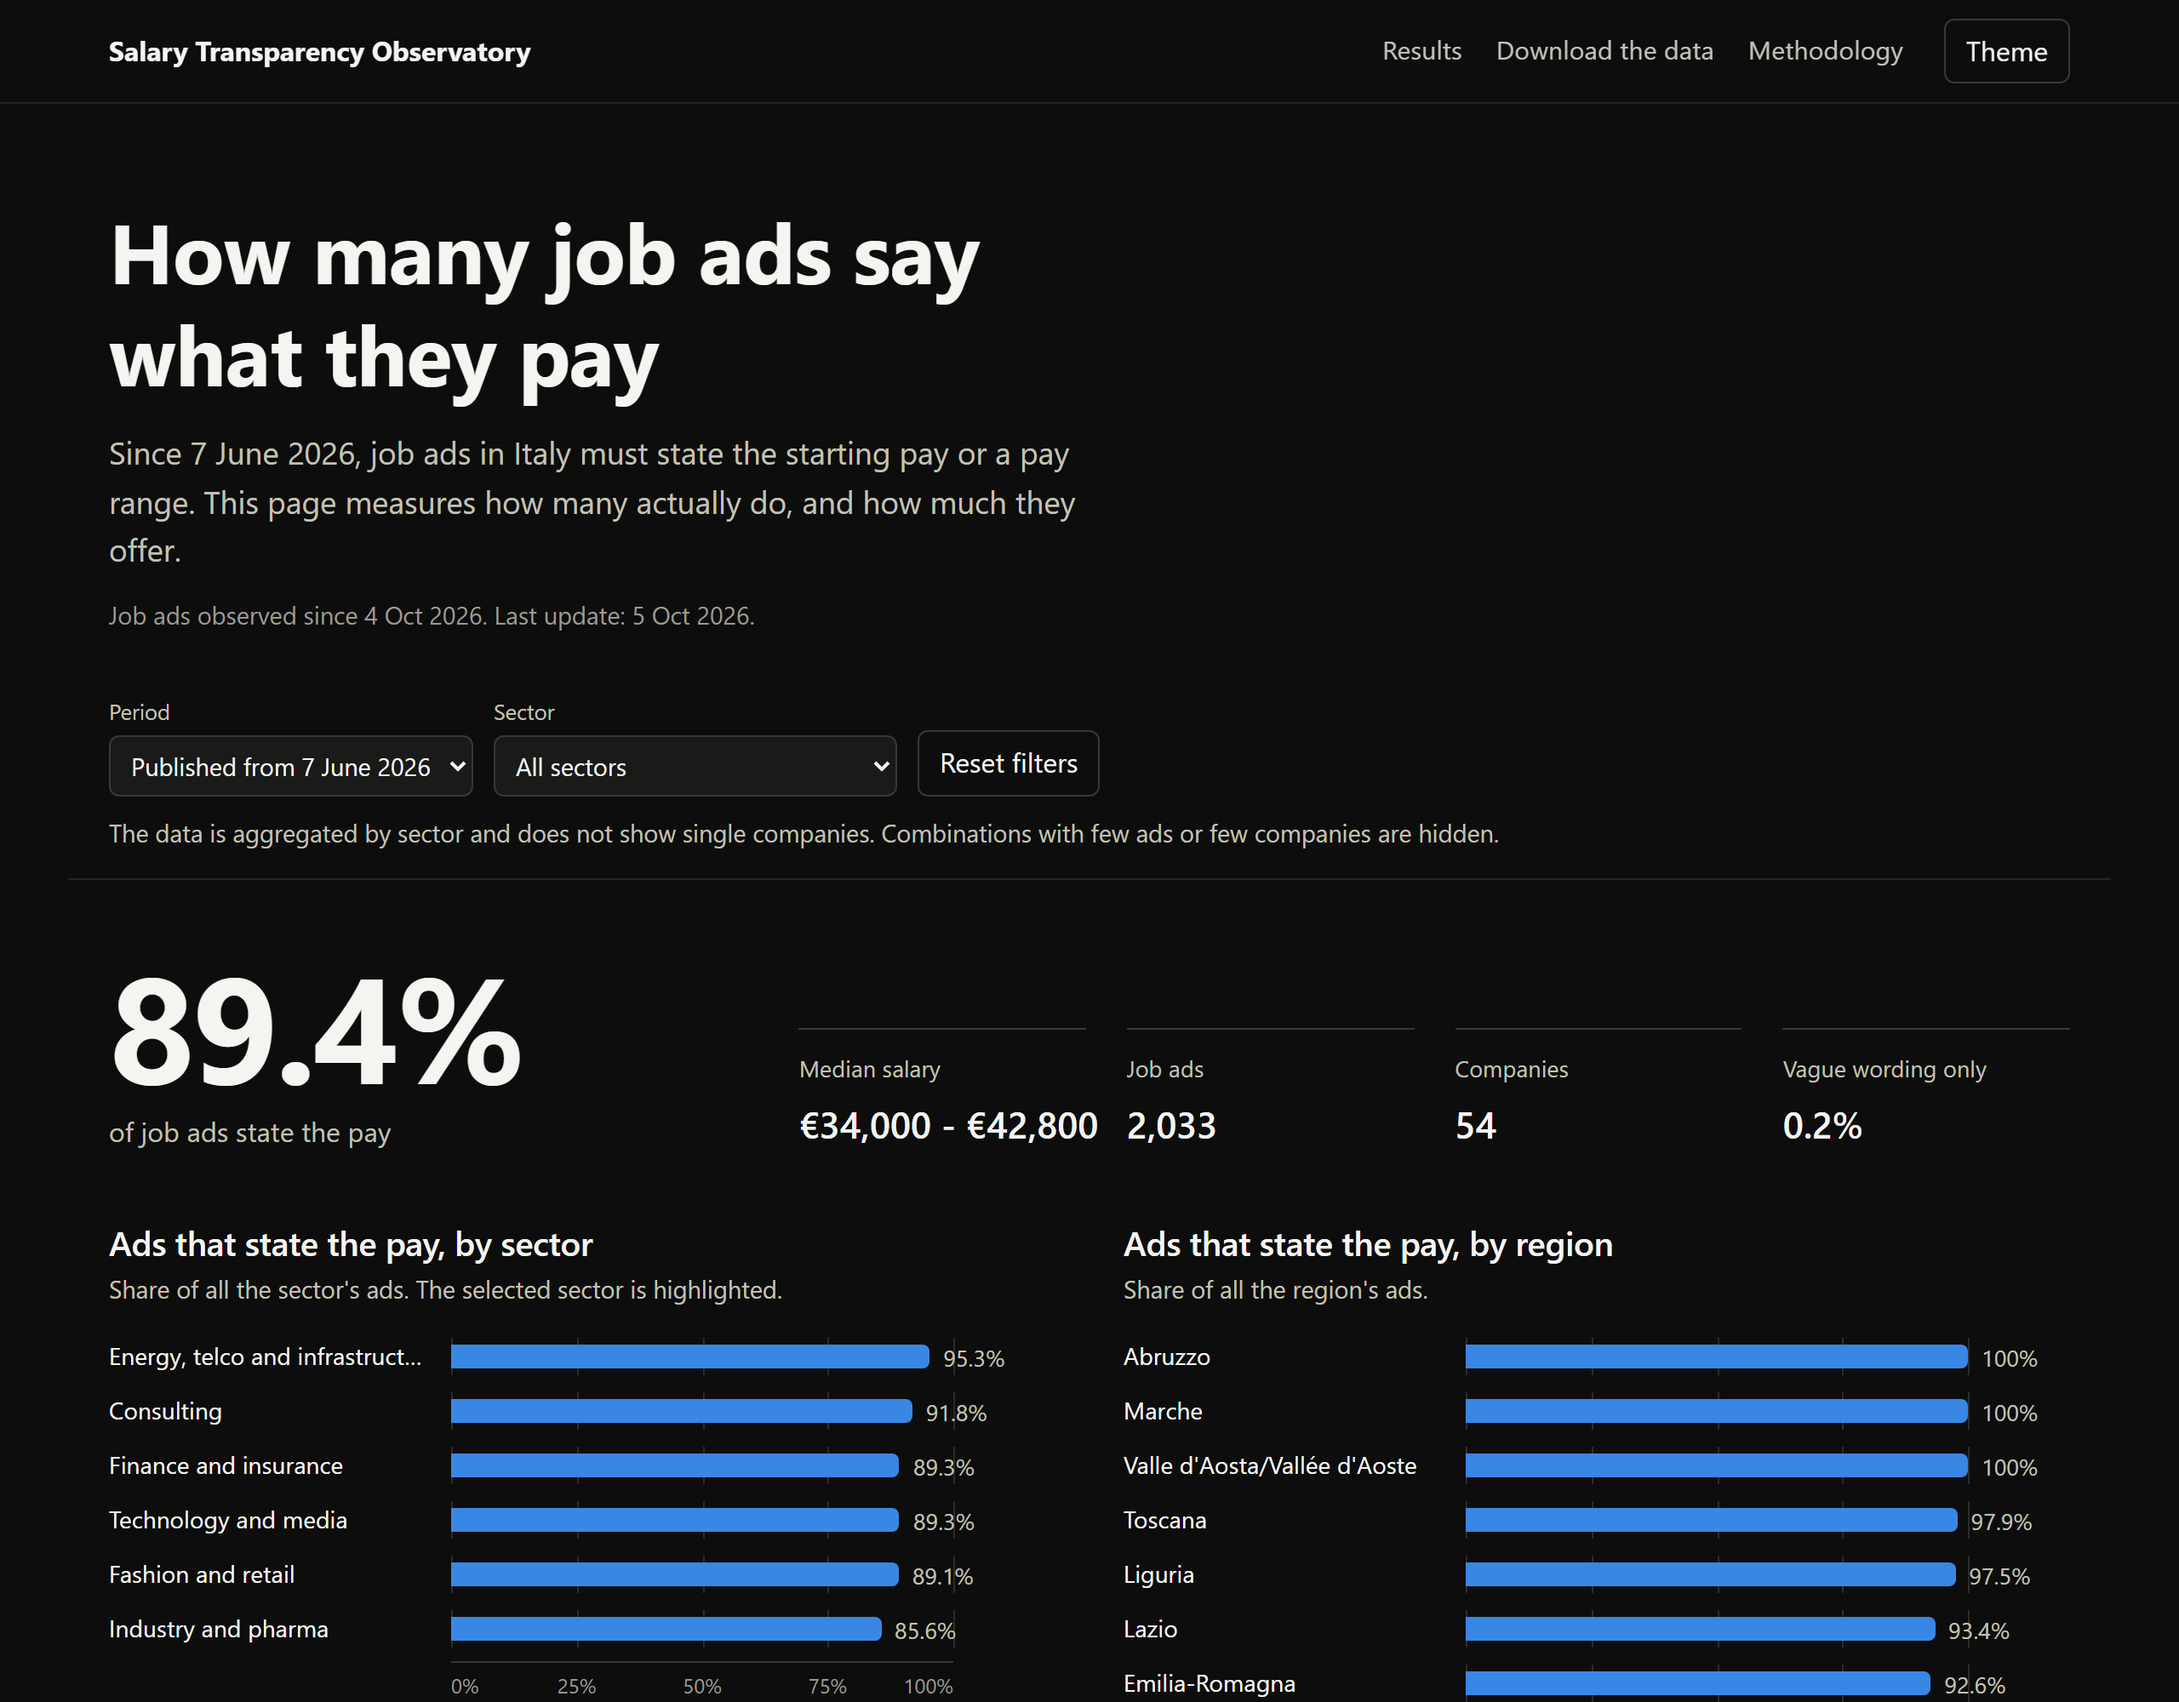
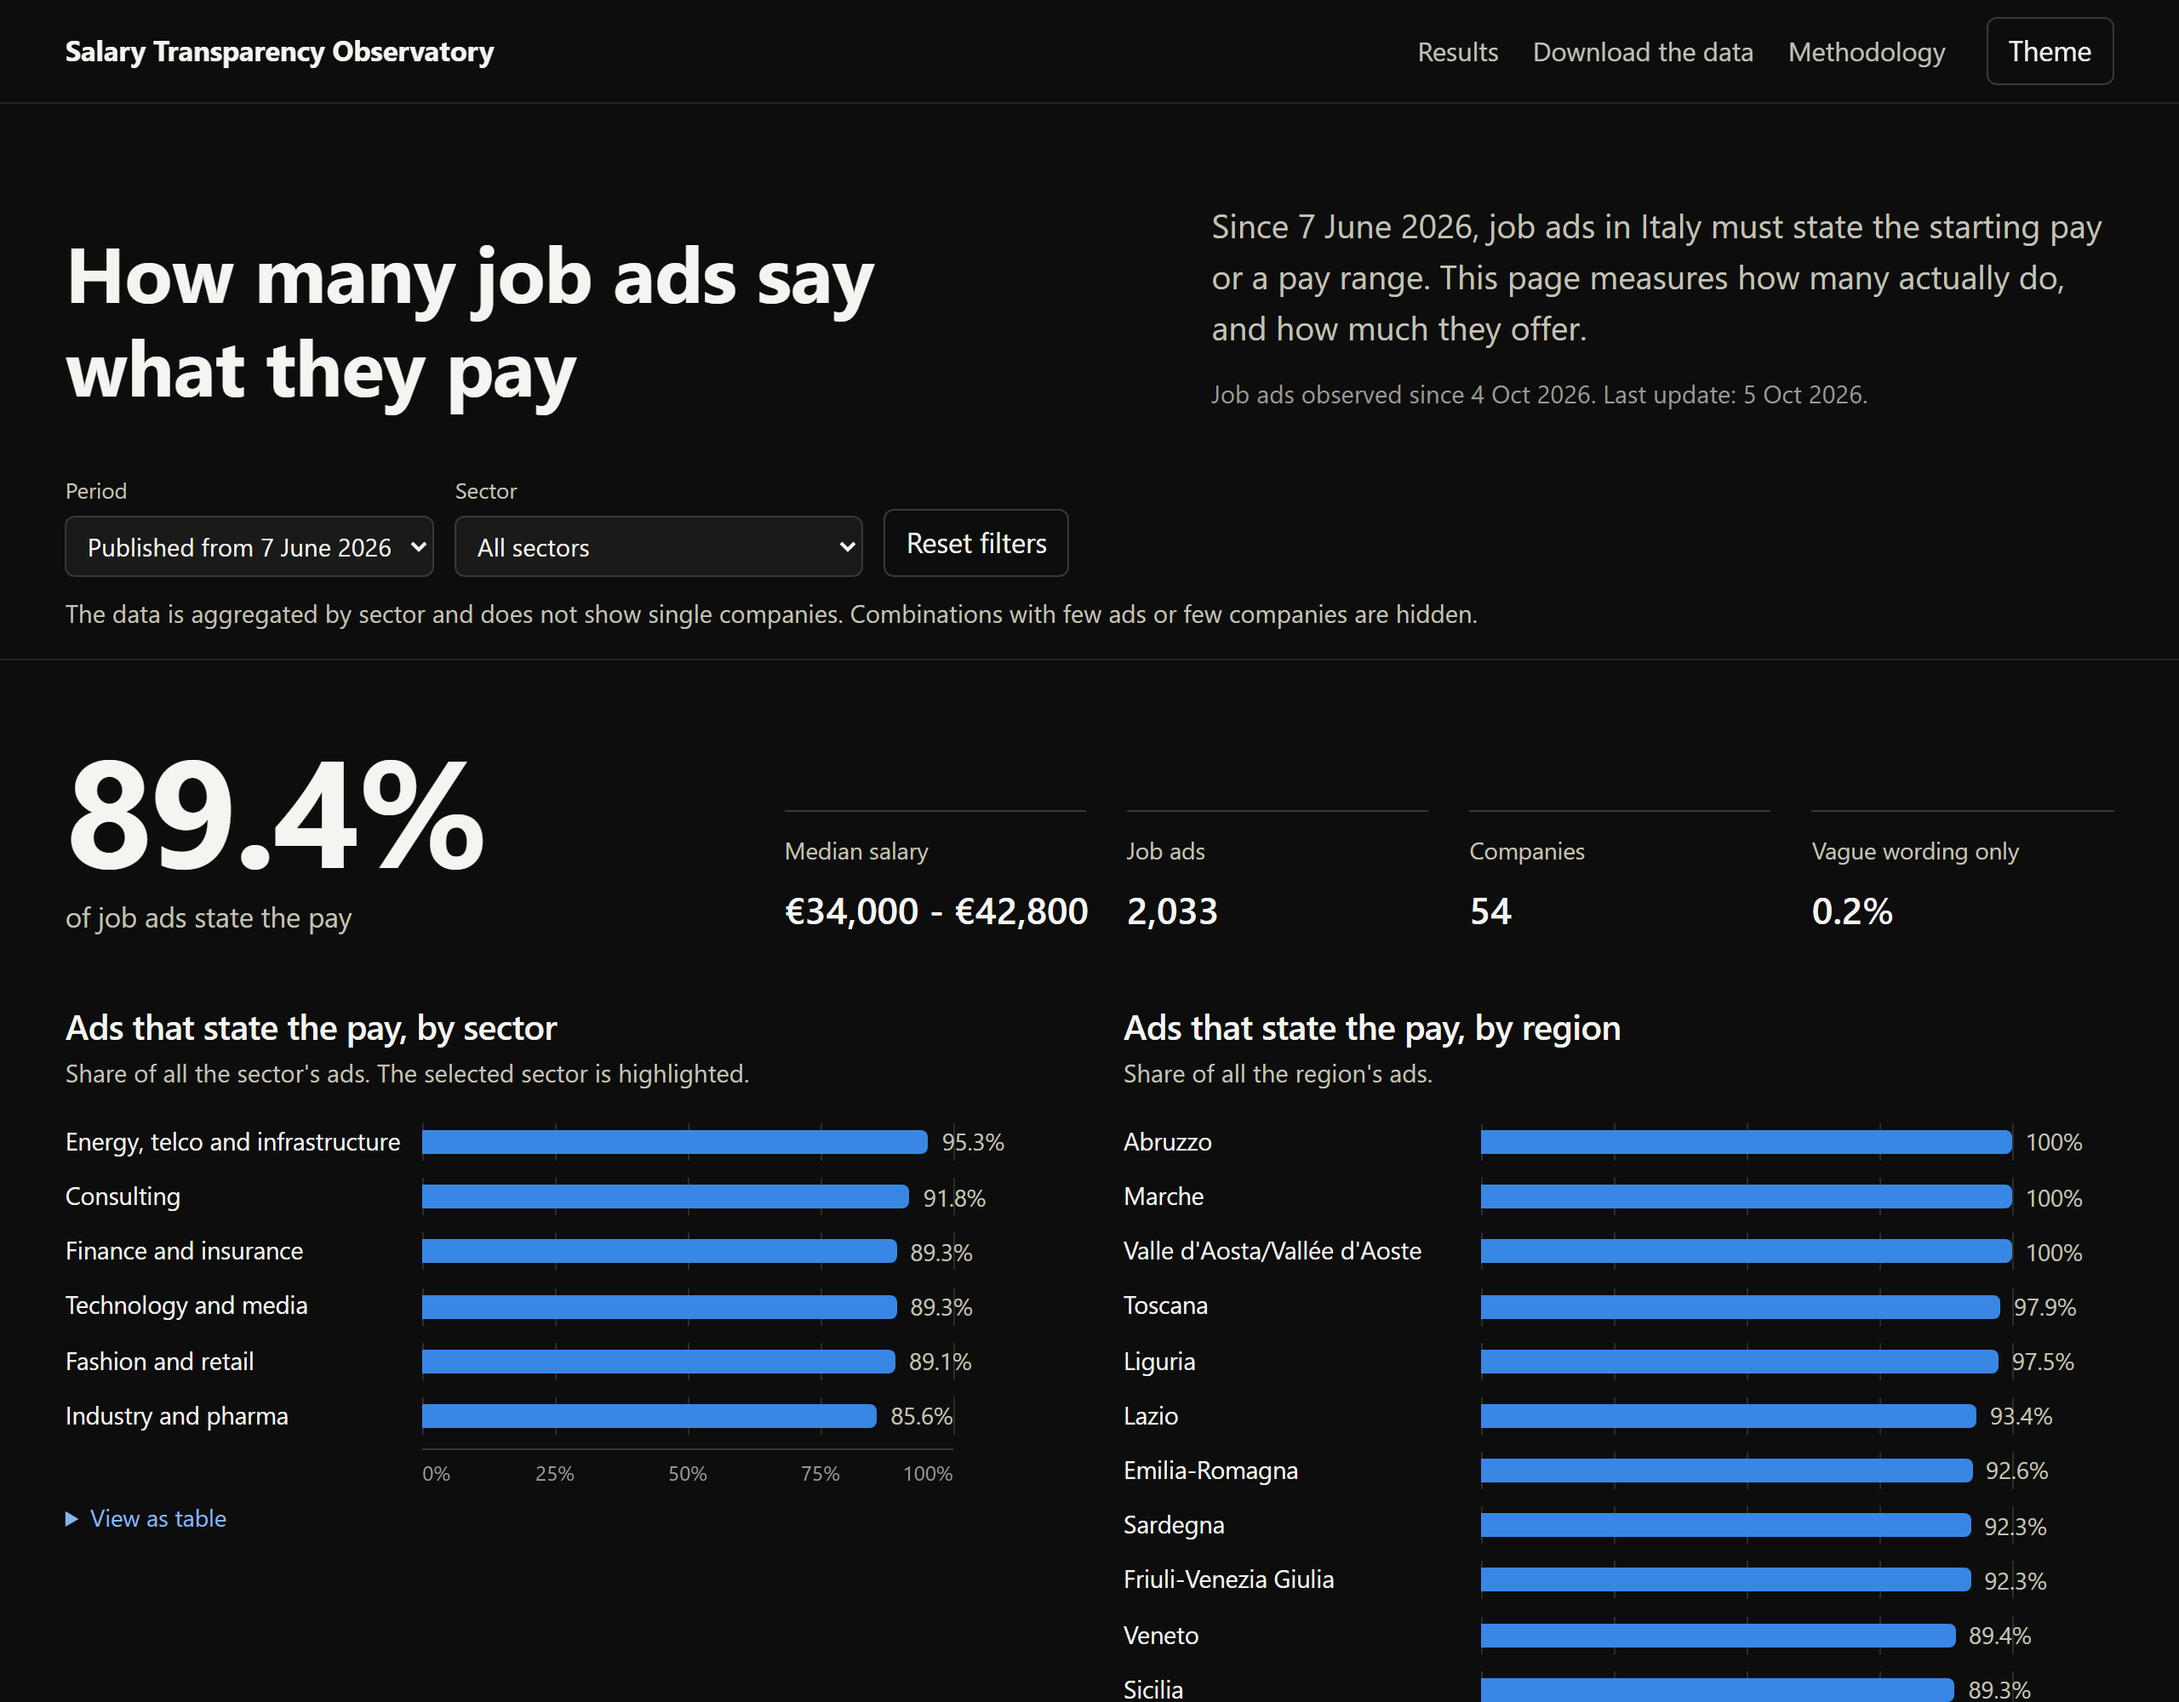
fix width

diff --git a/webapp/style.css b/webapp/style.css
@@ -54,25 +54,26 @@
 }
 
 * { box-sizing: border-box; }
-html { scroll-behavior: smooth; scroll-padding-top: 72px; }
+/* text grows a little on large screens: 16px on laptops, up to 19px on wide monitors */
+html { scroll-behavior: smooth; scroll-padding-top: 72px; font-size: clamp(16px, 0.45vw + 10.5px, 19px); }
 @media (prefers-reduced-motion: reduce) { html { scroll-behavior: auto; } }
 
 body {
   margin: 0;
   background: var(--page);
   color: var(--ink);
-  font: 16px/1.55 var(--font);
+  font: 1rem/1.55 var(--font);
   -webkit-font-smoothing: antialiased;
 }
 
 a { color: var(--accent-ink); text-underline-offset: 2px; }
 h1, h2, h3 { line-height: 1.2; margin: 0; letter-spacing: -0.01em; }
-h1 { font-size: clamp(2rem, 4.2vw, 3.1rem); font-weight: 650; max-width: 20ch; }
+h1 { font-size: clamp(2rem, 3.6vw, 3.6rem); font-weight: 650; max-width: 18ch; }
 h2 { font-size: 1.25rem; font-weight: 620; }
 h3 { font-size: 1rem; font-weight: 620; margin-top: 1.25rem; }
 p { margin: 0; }
 
-.wrap { width: 100%; max-width: 1200px; margin: 0 auto; padding: 0 24px; }
+.wrap { width: 100%; max-width: 1480px; margin: 0 auto; padding: 0 clamp(24px, 3vw, 56px); }
 @media (max-width: 767px) { .wrap { padding: 0 16px; } }
 
 /* top bar */
@@ -106,7 +107,13 @@ button:focus-visible, select:focus-visible, input:focus-visible, a:focus-visible
 
 /* intro */
 .intro { padding-top: 56px; padding-bottom: 24px; }
-.lede { margin-top: 16px; font-size: 1.15rem; color: var(--ink-2); max-width: 60ch; }
+.lede { margin-top: 16px; font-size: 1.2rem; color: var(--ink-2); max-width: 64ch; }
+/* wide screens: title on the left, intro text on the right, so the top uses the full width */
+@media (min-width: 1100px) {
+  .intro { display: grid; grid-template-columns: minmax(0, 1.15fr) minmax(0, 1fr); column-gap: 64px; align-items: end; }
+  .intro h1 { grid-row: span 2; }
+  .intro .lede { margin-top: 0; }
+}
 .stamp { margin-top: 12px; color: var(--muted); font-size: 0.9rem; }
 
 /* filters: one row above everything they filter */
@@ -116,7 +123,7 @@ button:focus-visible, select:focus-visible, input:focus-visible, a:focus-visible
 #filters label.grow { flex: 1 1 200px; }
 #filters select, #filters input {
   background: var(--surface); border: 1px solid var(--axis);
-  padding: 6px 8px; font-size: 0.9rem; min-width: 0; max-width: 220px;
+  padding: 6px 8px; font-size: 0.9rem; min-width: 0; max-width: 280px;
 }
 #filters input { width: 100%; max-width: none; }
 #filters input::placeholder { color: var(--muted); }
@@ -153,7 +160,7 @@ button:focus-visible, select:focus-visible, input:focus-visible, a:focus-visible
 .charts { display: grid; grid-template-columns: repeat(2, minmax(0, 1fr)); gap: 48px 40px; padding-bottom: 24px; }
 @media (max-width: 900px) { .charts { grid-template-columns: 1fr; } }
 .chart { margin: 0; min-width: 0; }
-.chart figcaption p { margin-top: 4px; color: var(--ink-2); font-size: 0.9rem; max-width: 60ch; }
+.chart figcaption p { margin-top: 4px; color: var(--ink-2); font-size: 0.9rem; max-width: 72ch; }
 .chart-body { margin-top: 16px; }
 
 .legend { list-style: none; display: flex; gap: 16px; padding: 0; margin: 12px 0 0; font-size: 0.85rem; color: var(--ink-2); }
@@ -225,7 +232,7 @@ table.data tbody tr:hover { background: var(--surface); }
 /* methodology */
 .method { padding-bottom: 80px; margin-top: 32px; border-top: 1px solid var(--ring); }
 .method-grid { display: grid; grid-template-columns: repeat(2, minmax(0, 1fr)); gap: 40px; margin-top: 8px; }
-.method-grid p, .method-grid li { color: var(--ink-2); max-width: 62ch; margin-top: 8px; }
+.method-grid p, .method-grid li { color: var(--ink-2); max-width: 75ch; margin-top: 8px; }
 .method-grid ul { padding-left: 18px; margin: 0; }
 @media (max-width: 900px) { .method-grid { grid-template-columns: 1fr; gap: 0; } }
 
@@ -243,7 +250,7 @@ table.data tbody tr:hover { background: var(--surface); }
 /* emphasis: the selected sector keeps the accent color, the others turn grey */
 .bar-muted { background: var(--axis); }
 .chart-empty { color: var(--ink-2); font-size: 0.9rem; max-width: 52ch; }
-#filters label.wide select { max-width: 360px; }
+#filters label.wide select { max-width: 420px; }
 .filters .note { margin-top: 10px; }
 .download a { font-weight: 600; }
 
